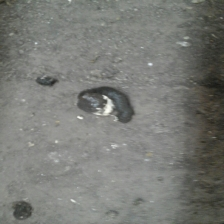
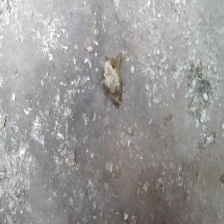
app updated

diff --git a/app.py b/app.py
@@ -45,4 +45,4 @@ def predictRoute():
 
 if __name__ == "__main__":
     clApp = ClientApp()
-    app.run(host='0.0.0.0', port=8080, debug= True)
+    app.run(host='0.0.0.0', port=5000, debug= True)
